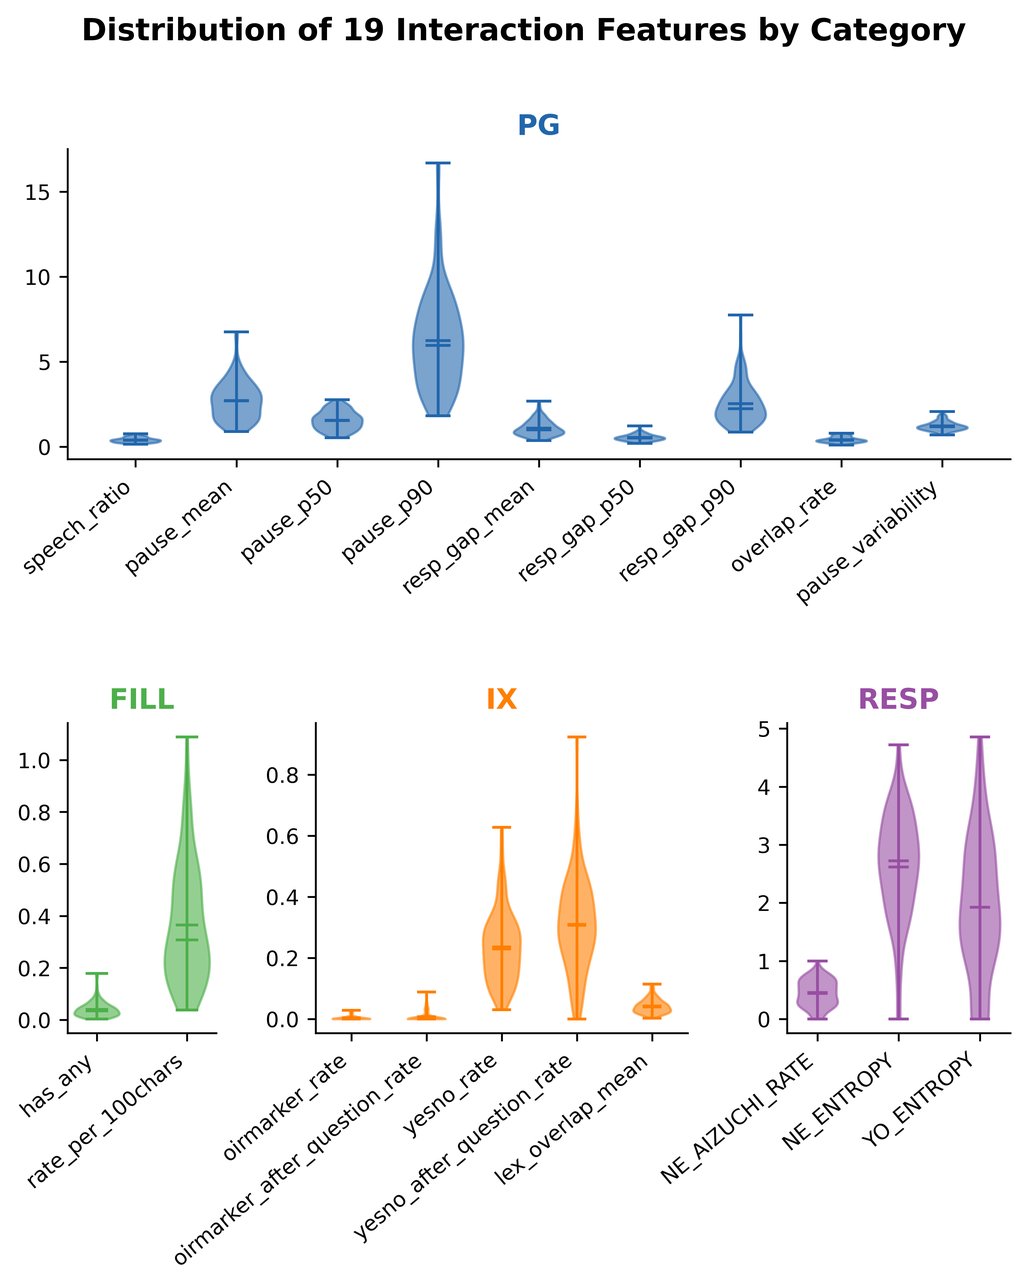
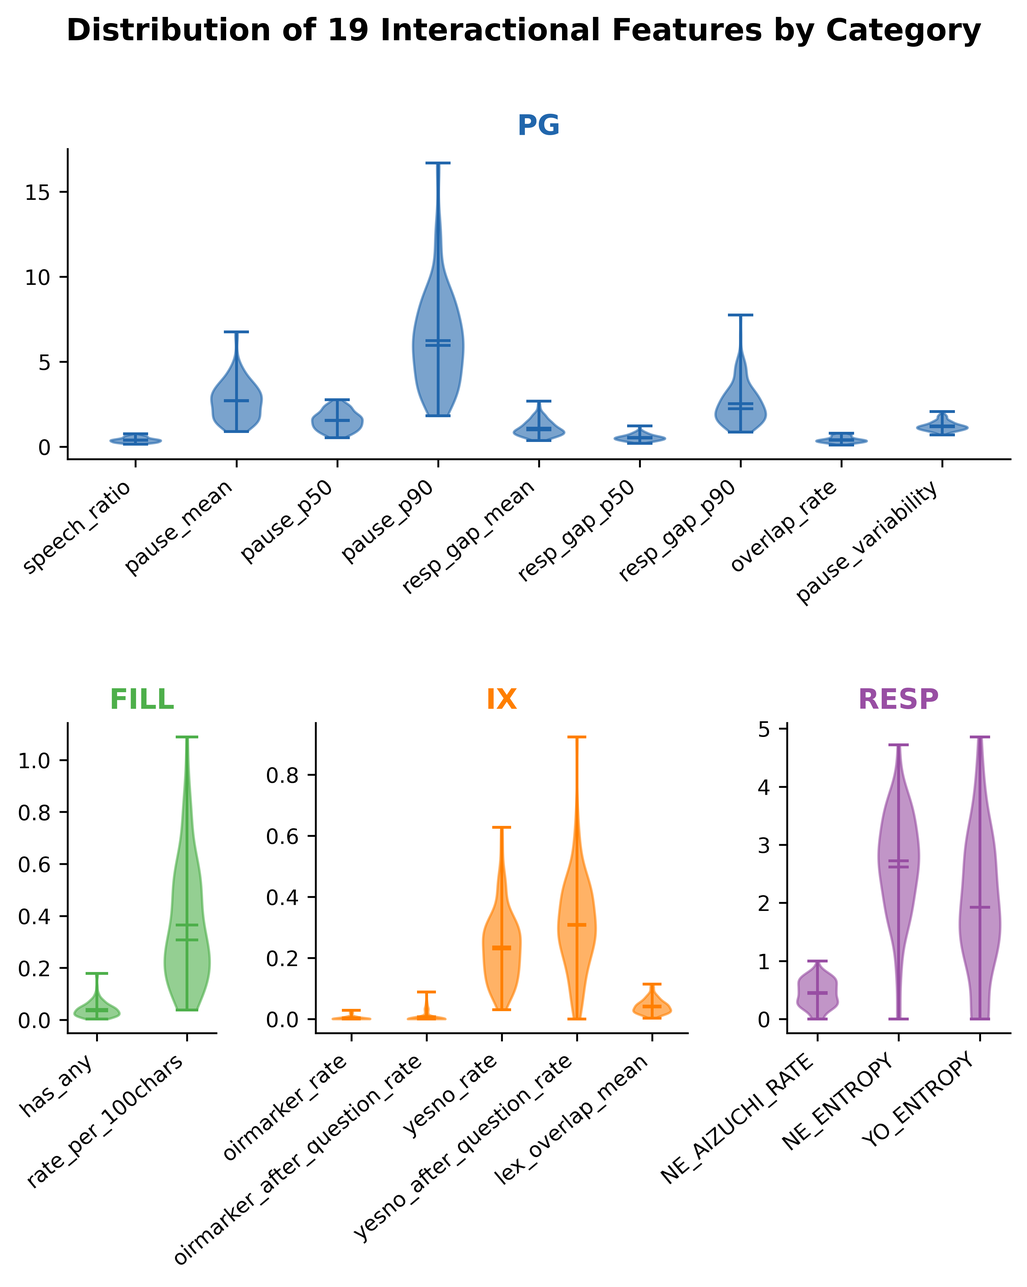
Use the manuscript's terms: interactional features, dually supported
Two names drifted from the manuscript and were still spelled the old way here.

"interaction features" is now "interactional features" throughout. One of the
occurrences was not prose but text baked into a figure: the suptitle of
fig_feature_distribution.png read "Distribution of 19 Interaction Features by
Category", so the published image contradicted its own caption. The figure is
regenerated; its dimensions are unchanged, only the title differs.

The explainer deck called the doubly-supported features 一致特徴量, which was
renamed to 両手法支持特徴量 because the old name did not say what agreed with
what. The generator and the generated HTML both follow.

Filenames keep their spelling. Renaming extract_interaction_features_min.py
would break the Makefile, the docs and the twin of this file in the working
repository, and buys nothing.

Changed region(s): [[0.062, 0.0, 0.9605, 0.0621]]

diff --git a/reports/paper_figs_v2/kamishibai_slides.html b/reports/paper_figs_v2/kamishibai_slides.html
@@ -258,14 +258,14 @@ body {
     <div class="slide with-table" id="slide-6">
       <div class="slide-number">Slide 6 / 9</div>
       <div class="slide-title">各性格次元に寄与する相互行為特徴量</div>
-      <div class="methods-note">📐 21変数（19特徴量＋性別＋年齢）×5次元の回帰係数（α=100、全データfit）。係数ごとの置換検定5,000回で p<0.05、かつ Bootstrap 500回の95%CIがゼロを除外する特徴量を「一致特徴量」と定義する（両方を満たすものだけを寄与とみなす）。統制変数は提案特徴量ではないため、下の集計からは除いている。</div>
+      <div class="methods-note">📐 21変数（19特徴量＋性別＋年齢）×5次元の回帰係数（α=100、全データfit）。係数ごとの置換検定5,000回で p<0.05、かつ Bootstrap 500回の95%CIがゼロを除外する特徴量を「両手法支持特徴量」と定義する（両方を満たすものだけを寄与とみなす）。統制変数は提案特徴量ではないため、下の集計からは除いている。</div>
       <div class="slide-images">
         <img src="fig_coef_all5.png" alt="fig_coef_all5.png">
       </div>
       <div class="slide-content">
-        <div class="methods-text"><h3>一致特徴量の内訳（提案19特徴量のみ。統制変数は別掲）</h3><table class="feature-table"><thead><tr><th>次元</th><th>O</th><th>C</th><th>E</th><th>A</th><th>N</th><th>計</th></tr></thead><tbody><tr><td>一致特徴量数</td><td>5</td><td>4</td><td>3</td><td>4</td><td>2</td><td>18</td></tr><tr><td>うち新規（Novel）</td><td>0</td><td>2</td><td>0</td><td>2</td><td>2</td><td>6</td></tr></tbody></table><h3>読み取り</h3><ul><li>タイミング系（PG）は5次元すべてに寄与し、沈黙系はO・E・Aで一貫して負</li><li>Nは一致特徴量2個がいずれも新規特徴量（質問直後修復開始率・YES/NO応答率）で、しかもCとは逆符号</li><li>Eは沈黙系3指標のみで、新規特徴量の寄与がない</li><li>統制変数自体も基準を満たす（O・Cは年齢、Aは性別）。提案特徴量ではないので集計外</li><li>修復開始率（IX_oirmarker_rate）・語彙重複（IX_lex_overlap_mean）・沈黙長の変動係数（PG_pause_variability）などは5次元のいずれでも一致特徴量にならなかった</li></ul><div class="note-box">性別・年齢を同時に投入したため、統制なし（19変数）のときより基準が厳しくなっている。一致特徴量は 23個→18個、新規は 9個→6個、新規が寄与する次元は 4→3次元（C・A・N）。Oから「ね」直後相槌率が落ちたことが次元数減少の理由である。</div></div>
+        <div class="methods-text"><h3>両手法支持特徴量の内訳（提案19特徴量のみ。統制変数は別掲）</h3><table class="feature-table"><thead><tr><th>次元</th><th>O</th><th>C</th><th>E</th><th>A</th><th>N</th><th>計</th></tr></thead><tbody><tr><td>両手法支持特徴量数</td><td>5</td><td>4</td><td>3</td><td>4</td><td>2</td><td>18</td></tr><tr><td>うち新規（Novel）</td><td>0</td><td>2</td><td>0</td><td>2</td><td>2</td><td>6</td></tr></tbody></table><h3>読み取り</h3><ul><li>タイミング系（PG）は5次元すべてに寄与し、沈黙系はO・E・Aで一貫して負</li><li>Nは両手法支持特徴量2個がいずれも新規特徴量（質問直後修復開始率・YES/NO応答率）で、しかもCとは逆符号</li><li>Eは沈黙系3指標のみで、新規特徴量の寄与がない</li><li>統制変数自体も基準を満たす（O・Cは年齢、Aは性別）。提案特徴量ではないので集計外</li><li>修復開始率（IX_oirmarker_rate）・語彙重複（IX_lex_overlap_mean）・沈黙長の変動係数（PG_pause_variability）などは5次元のいずれでも両手法支持特徴量にならなかった</li></ul><div class="note-box">性別・年齢を同時に投入したため、統制なし（19変数）のときより基準が厳しくなっている。両手法支持特徴量は 23個→18個、新規は 9個→6個、新規が寄与する次元は 4→3次元（C・A・N）。Oから「ね」直後相槌率が落ちたことが次元数減少の理由である。</div></div>
       </div>
-      <div class="slide-conclusion">一致特徴量は5次元すべてで同定され計18個。うち6個が本研究で新たに定義した連鎖組織系（IX）・応答型系（RESP）であり、C・A・Nの3次元で寄与した。</div>
+      <div class="slide-conclusion">両手法支持特徴量は5次元すべてで同定され計18個。うち6個が本研究で新たに定義した連鎖組織系（IX）・応答型系（RESP）であり、C・A・Nの3次元で寄与した。</div>
     </div>
     <div class="nav"><a href="#slide-5" class="nav-link">← prev</a> &nbsp;|&nbsp; 6 / 9 &nbsp;|&nbsp; <a href="#slide-7" class="nav-link">next →</a></div>
 
@@ -297,7 +297,7 @@ body {
       <div class="slide-title">付録: ベースライン検証（3条件比較）</div>
       <div class="methods-note">📐 条件1: テキスト全文（本文の主結果と同一）。条件2: 4統計量のみ（発話数・平均発話長・会話長・フィラー数）。条件3: 別話者テキスト（derangement, seed=42）。3条件すべて本文と同一設定（21変数＝19特徴量＋性別＋年齢、α=100、5-fold GroupKFold、置換5,000回、Holm補正）で再計算。条件1は主結果と4桁一致するので、主結果側の再現性チェックにもなっている。</div>
       <div class="slide-content">
-        <div class="methods-text"><h3>3条件の r<sub>obs</sub>（* は p<sub>Holm</sub> &lt; 0.05）</h3><table class="feature-table"><thead><tr><th>次元</th><th>条件1<br/>テキスト</th><th>条件2<br/>要約のみ</th><th>条件3<br/>ランダム</th><th>判定</th></tr></thead><tbody><tr><td>O</td><td>0.401 *</td><td>0.538 *</td><td>−0.009</td><td>条件3で消失</td></tr><tr><td>C</td><td>0.447 *</td><td>0.641 *</td><td>0.039</td><td>条件3で消失</td></tr><tr><td>E</td><td>0.254 *</td><td>0.295 *</td><td>0.020</td><td>条件3で消失</td></tr><tr><td>A</td><td>0.517 *</td><td>0.464 *</td><td>0.242</td><td>条件3で消失</td></tr><tr><td>N</td><td>0.406 *</td><td>0.747 *</td><td>−0.120</td><td>条件3で消失</td></tr></tbody></table><h3>Cronbach's α（回答の内的一貫性、4モデル平均）</h3><table class="feature-table"><thead><tr><th>次元</th><th>条件1</th><th>条件2</th><th>判定</th></tr></thead><tbody><tr><td>O</td><td>≥ 0.78</td><td>0.063</td><td>崩壊</td></tr><tr><td>C</td><td>≥ 0.78</td><td>0.176</td><td>崩壊</td></tr><tr><td>E</td><td>≥ 0.78</td><td>0.041</td><td>崩壊</td></tr><tr><td>A</td><td>≥ 0.78</td><td>0.194</td><td>崩壊</td></tr><tr><td>N</td><td>≥ 0.78</td><td>0.298</td><td>崩壊</td></tr></tbody></table><h3>解釈</h3><ul><li>条件3で全次元が非有意（p<sub>Holm</sub> ≥ 0.287）→ 陰性対照として機能。プロンプトの構造や回答バイアスだけで関連が出ているのではない</li><li>条件2の Δr は +0.053〜−0.342。N・C・O では条件1を大きく上回るが、A では逆に下がる（0.517→0.464）</li><li>条件2はrが高いがαが0.3以下 → 項目間で一貫した性格像を作れていないのに相関だけが立っている。入力が4数値に限られるとLLMの出力が入力の単調関数に近づくため</li><li>本文の一致特徴量18個のうち6個はIX系・RESP系で、条件2の4統計量からは算出できない → 提案特徴量の寄与は表層統計量に還元されない</li><li>この3条件比較はLLM採点の性質を調べるもので、提案特徴量そのものの妥当性を直接評価するものではない</li></ul></div>
+        <div class="methods-text"><h3>3条件の r<sub>obs</sub>（* は p<sub>Holm</sub> &lt; 0.05）</h3><table class="feature-table"><thead><tr><th>次元</th><th>条件1<br/>テキスト</th><th>条件2<br/>要約のみ</th><th>条件3<br/>ランダム</th><th>判定</th></tr></thead><tbody><tr><td>O</td><td>0.401 *</td><td>0.538 *</td><td>−0.009</td><td>条件3で消失</td></tr><tr><td>C</td><td>0.447 *</td><td>0.641 *</td><td>0.039</td><td>条件3で消失</td></tr><tr><td>E</td><td>0.254 *</td><td>0.295 *</td><td>0.020</td><td>条件3で消失</td></tr><tr><td>A</td><td>0.517 *</td><td>0.464 *</td><td>0.242</td><td>条件3で消失</td></tr><tr><td>N</td><td>0.406 *</td><td>0.747 *</td><td>−0.120</td><td>条件3で消失</td></tr></tbody></table><h3>Cronbach's α（回答の内的一貫性、4モデル平均）</h3><table class="feature-table"><thead><tr><th>次元</th><th>条件1</th><th>条件2</th><th>判定</th></tr></thead><tbody><tr><td>O</td><td>≥ 0.78</td><td>0.063</td><td>崩壊</td></tr><tr><td>C</td><td>≥ 0.78</td><td>0.176</td><td>崩壊</td></tr><tr><td>E</td><td>≥ 0.78</td><td>0.041</td><td>崩壊</td></tr><tr><td>A</td><td>≥ 0.78</td><td>0.194</td><td>崩壊</td></tr><tr><td>N</td><td>≥ 0.78</td><td>0.298</td><td>崩壊</td></tr></tbody></table><h3>解釈</h3><ul><li>条件3で全次元が非有意（p<sub>Holm</sub> ≥ 0.287）→ 陰性対照として機能。プロンプトの構造や回答バイアスだけで関連が出ているのではない</li><li>条件2の Δr は +0.053〜−0.342。N・C・O では条件1を大きく上回るが、A では逆に下がる（0.517→0.464）</li><li>条件2はrが高いがαが0.3以下 → 項目間で一貫した性格像を作れていないのに相関だけが立っている。入力が4数値に限られるとLLMの出力が入力の単調関数に近づくため</li><li>本文の両手法支持特徴量18個のうち6個はIX系・RESP系で、条件2の4統計量からは算出できない → 提案特徴量の寄与は表層統計量に還元されない</li><li>この3条件比較はLLM採点の性質を調べるもので、提案特徴量そのものの妥当性を直接評価するものではない</li></ul></div>
       </div>
       <div class="slide-conclusion">条件3（ランダムテキスト）で関連が消失 → LLMはテキストと話者の対応を読んでいる。条件2（要約のみ）は次元によってrが条件1を上回るが Cronbach's α が0.3以下に崩れており、「推定精度が高い」のではなく入力が乏しいときLLMが表層量へ依存することを示す。</div>
     </div>

diff --git a/scripts/paper_figs/gen_kamishibai_slides.py b/scripts/paper_figs/gen_kamishibai_slides.py
@@ -9,7 +9,7 @@ Methods 2枚 + 本文Results 5枚 + 付録 2枚 = 計9枚。
 原稿との対応:
   Slide 3-4 → 本文 記述統計量・相関分析
   Slide 5   → 本文 性格特性との関連（主結果。GroupKFold による subject-wise split）
-  Slide 6   → 本文 各性格次元に寄与する相互行為特徴量（一致特徴量）
+  Slide 6   → 本文 各性格次元に寄与する相互行為特徴量（両手法支持特徴量）
   Slide 7   → 本文 α感度／検出力（結果は判定のみ、依存性は考察で扱う）
   Slide 8-9 → 付録 コーパス基本情報との関連／ベースライン検証
 
@@ -212,39 +212,39 @@ SLIDES: list[Slide] = [
         title="各性格次元に寄与する相互行為特徴量",
         images=["fig_coef_all5.png"],
         conclusion=(
-            "一致特徴量は5次元すべてで同定され計18個。うち6個が本研究で新たに定義した"
+            "両手法支持特徴量は5次元すべてで同定され計18個。うち6個が本研究で新たに定義した"
             "連鎖組織系（IX）・応答型系（RESP）であり、C・A・Nの3次元で寄与した。"
         ),
         methods_note=(
             "21変数（19特徴量＋性別＋年齢）×5次元の回帰係数（α=100、全データfit）。"
             "係数ごとの置換検定5,000回で p<0.05、かつ Bootstrap 500回の95%CIがゼロを除外する"
-            "特徴量を「一致特徴量」と定義する（両方を満たすものだけを寄与とみなす）。"
+            "特徴量を「両手法支持特徴量」と定義する（両方を満たすものだけを寄与とみなす）。"
             "統制変数は提案特徴量ではないため、下の集計からは除いている。"
         ),
         html_content=(
             '<div class="methods-text">'
-            "<h3>一致特徴量の内訳（提案19特徴量のみ。統制変数は別掲）</h3>"
+            "<h3>両手法支持特徴量の内訳（提案19特徴量のみ。統制変数は別掲）</h3>"
             '<table class="feature-table">'
             "<thead><tr>"
             "<th>次元</th><th>O</th><th>C</th><th>E</th><th>A</th><th>N</th><th>計</th>"
             "</tr></thead>"
             "<tbody>"
-            "<tr><td>一致特徴量数</td><td>5</td><td>4</td><td>3</td><td>4</td><td>2</td><td>18</td></tr>"
+            "<tr><td>両手法支持特徴量数</td><td>5</td><td>4</td><td>3</td><td>4</td><td>2</td><td>18</td></tr>"
             "<tr><td>うち新規（Novel）</td><td>0</td><td>2</td><td>0</td><td>2</td><td>2</td><td>6</td></tr>"
             "</tbody></table>"
             "<h3>読み取り</h3>"
             "<ul>"
             "<li>タイミング系（PG）は5次元すべてに寄与し、沈黙系はO・E・Aで一貫して負</li>"
-            "<li>Nは一致特徴量2個がいずれも新規特徴量（質問直後修復開始率・YES/NO応答率）で、"
+            "<li>Nは両手法支持特徴量2個がいずれも新規特徴量（質問直後修復開始率・YES/NO応答率）で、"
             "しかもCとは逆符号</li>"
             "<li>Eは沈黙系3指標のみで、新規特徴量の寄与がない</li>"
             "<li>統制変数自体も基準を満たす（O・Cは年齢、Aは性別）。提案特徴量ではないので集計外</li>"
             "<li>修復開始率（IX_oirmarker_rate）・語彙重複（IX_lex_overlap_mean）・"
-            "沈黙長の変動係数（PG_pause_variability）などは5次元のいずれでも一致特徴量にならなかった</li>"
+            "沈黙長の変動係数（PG_pause_variability）などは5次元のいずれでも両手法支持特徴量にならなかった</li>"
             "</ul>"
             '<div class="note-box">'
             "性別・年齢を同時に投入したため、統制なし（19変数）のときより基準が厳しくなっている。"
-            "一致特徴量は 23個→18個、新規は 9個→6個、新規が寄与する次元は 4→3次元（C・A・N）。"
+            "両手法支持特徴量は 23個→18個、新規は 9個→6個、新規が寄与する次元は 4→3次元（C・A・N）。"
             "Oから「ね」直後相槌率が落ちたことが次元数減少の理由である。"
             "</div>"
             "</div>"
@@ -358,7 +358,7 @@ SLIDES: list[Slide] = [
             "A では逆に下がる（0.517→0.464）</li>"
             "<li>条件2はrが高いがαが0.3以下 → 項目間で一貫した性格像を作れていないのに"
             "相関だけが立っている。入力が4数値に限られるとLLMの出力が入力の単調関数に近づくため</li>"
-            "<li>本文の一致特徴量18個のうち6個はIX系・RESP系で、条件2の4統計量からは"
+            "<li>本文の両手法支持特徴量18個のうち6個はIX系・RESP系で、条件2の4統計量からは"
             "算出できない → 提案特徴量の寄与は表層統計量に還元されない</li>"
             "<li>この3条件比較はLLM採点の性質を調べるもので、"
             "提案特徴量そのものの妥当性を直接評価するものではない</li>"

diff --git a/scripts/analysis/verify_numerical_consistency.py b/scripts/analysis/verify_numerical_consistency.py
@@ -116,7 +116,7 @@ def verify_consistency(
     Therefore, r_obs values are NOT expected to match numerically.
     This function instead verifies:
       1. Parameter consistency (seed, alpha)
-      2. Feature set consistency (interaction features match)
+      2. Feature set consistency (interactional features match)
       3. Whether any unexpected discrepancies exist in the feature sets
 
     Args:
@@ -217,7 +217,7 @@ def verify_consistency(
         "expected to match."
     )
     summary_lines.append(
-        "  The key check is that the 19 interaction features are identical "
+        "  The key check is that the 19 interactional features are identical "
         "in both analyses."
     )
 
@@ -231,7 +231,7 @@ def verify_consistency(
         report.overall_consistent = True
         summary_lines.append("")
         summary_lines.append(
-            "✓ All interaction feature sets are consistent between analyses."
+            "✓ All interactional feature sets are consistent between analyses."
         )
 
     report.summary = "\n".join(summary_lines)
@@ -288,10 +288,10 @@ def _check_trait_consistency(
         result.diagnosis = f"Error reading permutation_coef file: {e}"
         return result
 
-    # ── Compare interaction feature sets ─────────────────────────────
+    # ── Compare interactional feature sets ─────────────────────────────
     # Three-stage Stage 3 uses: demographics (2) + CLASSICAL (10) + NOVEL (9) = 21
     # Permutation coef uses: CLASSICAL (10) + NOVEL (9) = 19
-    # We check that the 19 interaction features match
+    # We check that the 19 interactional features match
     expected_interaction = set(ALL_INTERACTION_FEATURES)
     actual_perm_features = set(result.perm_coef_features)
 
@@ -362,7 +362,7 @@ def _check_trait_consistency(
     else:
         result.feature_set_match = True
         result.diagnosis = (
-            "Interaction feature sets are consistent. "
+            "Interactional feature sets are consistent. "
             f"Three-stage Stage 3 uses {result.three_stage_n_features} features "
             f"(2 demographics + {result.perm_coef_n_features} interaction). "
             f"Permutation coef uses {result.perm_coef_n_features} interaction "

diff --git a/scripts/paper_figs/gen_paper_figs_v2.py b/scripts/paper_figs/gen_paper_figs_v2.py
@@ -1100,7 +1100,7 @@ def gen_feature_distribution(features_df: pd.DataFrame, out_dir: Path) -> None:
     for j, cat in enumerate(row2):
         _plot_cat(fig.add_subplot(inner[0, j]), cat)
 
-    fig.suptitle("Distribution of 19 Interaction Features by Category",
+    fig.suptitle("Distribution of 19 Interactional Features by Category",
                  fontsize=13, fontweight="bold", y=0.995)
     out_path = out_dir / "fig_feature_distribution.png"
     fig.savefig(out_path, dpi=600, bbox_inches="tight")
@@ -2086,7 +2086,7 @@ def gen_fig_predicted_vs_observed(
 
     For each of 5 Big5 traits:
     1. Load ensemble scores (4-teacher average)
-    2. Merge with 19 interaction features
+    2. Merge with 19 interactional features
     3. Run Ridge (α=100) 5-fold subject-wise CV
     4. Collect out-of-fold predictions
     5. Plot observed (x) vs predicted (y) scatter with regression line

diff --git a/scripts/analysis/sensitivity_analysis.py b/scripts/analysis/sensitivity_analysis.py
@@ -1,6 +1,6 @@
 #!/usr/bin/env python3
 # -*- coding: utf-8 -*-
-"""Sensitivity Analysis for interaction feature parameters.
+"""Sensitivity Analysis for interactional feature parameters.
 
 Run Ridge + Permutation test under varying parameter conditions
 to assess robustness of main results (trait C).
@@ -478,7 +478,7 @@ def run_analysis(
 # ── CLI ──────────────────────────────────────────────────────────────
 def main():
     ap = argparse.ArgumentParser(
-        description="Sensitivity analysis for interaction feature parameters",
+        description="Sensitivity analysis for interactional feature parameters",
     )
     ap.add_argument(
         "--utterances_parquet", default=None,

diff --git a/scripts/cejc/build_monologues_hq1.py b/scripts/cejc/build_monologues_hq1.py
@@ -6,7 +6,7 @@ Step 2 of the pipeline: build pseudo-monologues for the HQ1 target pairs.
 For every (conversation_id, speaker_id) in the target-pair table, the speaker's
 utterances are concatenated in chronological order into a single text block.
 These blocks are the input the language models see when they answer the
-IPIP-NEO-120 items; the interaction features are computed from the utterance
+IPIP-NEO-120 items; the interactional features are computed from the utterance
 table separately, so the two views never share a preprocessing step.
 
 The output is written twice: once under `--out_parquet` and once under a

diff --git a/tests/test_verify_consistency.py b/tests/test_verify_consistency.py
@@ -45,7 +45,7 @@ class TestVerifyConsistency:
     """Tests for verify_consistency function."""
 
     def test_consistent_feature_sets(self, tmp_path: Path):
-        """When both analyses use the same 19 interaction features, report consistent."""
+        """When both analyses use the same 19 interactional features, report consistent."""
         ts_dir = tmp_path / "three_stage"
         pc_dir = tmp_path / "permutation_coef"
         ts_dir.mkdir()

diff --git a/scripts/analysis/build_xy_dataset.py b/scripts/analysis/build_xy_dataset.py
@@ -1,7 +1,7 @@
 #!/usr/bin/env python3
 # -*- coding: utf-8 -*-
 """
-Join the interaction features (X) with a trait score (Y) into one analysis table.
+Join the interactional features (X) with a trait score (Y) into one analysis table.
 
 X comes from extract_interaction_features_min.py, Y from the merged model scores.
 The join is an inner join on (conversation_id, speaker_id): a record survives

diff --git a/scripts/analysis/extract_interaction_features_min.py b/scripts/analysis/extract_interaction_features_min.py
@@ -88,7 +88,7 @@ def extract_features(
     target_pairs: set | None,
     gap_tol: float = 0.05,
 ) -> pd.DataFrame:
-    """Extract interaction features from utterances DataFrame.
+    """Extract interactional features from utterances DataFrame.
 
     Args:
         utterances_df: DataFrame with columns conversation_id, speaker_id, text,

diff --git a/scripts/paper_figs/feature_definitions.py b/scripts/paper_figs/feature_definitions.py
@@ -1,4 +1,4 @@
-"""19 interaction feature definitions + EXCL3 control variables.
+"""19 interactional feature definitions + EXCL3 control variables.
 
 Derived from ``scripts/analysis/extract_interaction_features_min.py``.
 Each entry documents name, category, summary, algorithm, and whether

diff --git a/artifacts/README.md b/artifacts/README.md
@@ -17,7 +17,7 @@ artifacts/
 │   └── cejc_utterances/part-00000.parquet   # utterance table
 ├── analysis/
 │   ├── target_pairs/                    # step 1  HQ1 sample
-│   ├── features_min/                    # step 5  19 interaction features
+│   ├── features_min/                    # step 5  19 interactional features
 │   ├── datasets/                        # step 6  joined X + Y tables
 │   ├── cejc_speaker_metadata.tsv        # step 6  sex / age per record
 │   └── results/                         # step 7  all statistical output

diff --git a/docs/feature-dictionary.md b/docs/feature-dictionary.md
@@ -1,4 +1,4 @@
-# Feature dictionary — 19 interaction features
+# Feature dictionary — 19 interactional features
 
 The definitive definitions live in code, not in this file:
 
